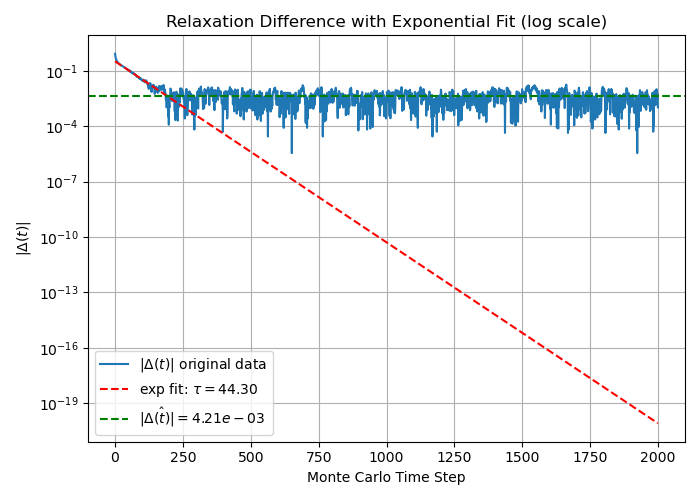
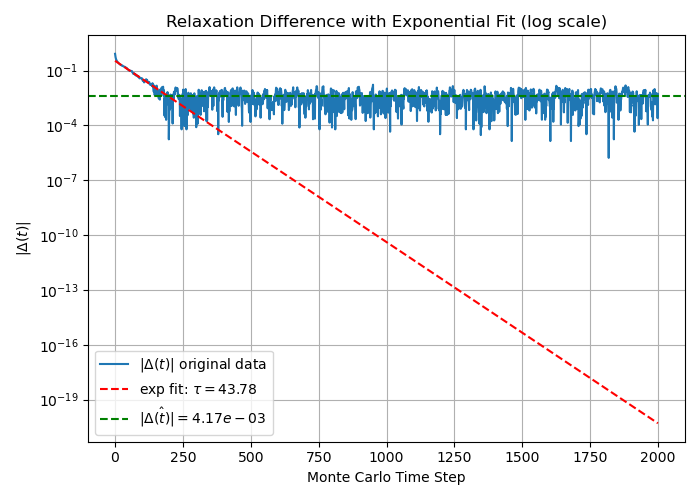
a

diff --git a/code/ising_relaxation_gpt_fast.py b/code/ising_relaxation_gpt_fast.py
@@ -3,12 +3,14 @@ import matplotlib.pyplot as plt
 from scipy.ndimage import uniform_filter1d
 from scipy.optimize import curve_fit
 from numba import njit
+import os
+import json
 
 # 参数设置
 L = 16
 T = 1/(0.5 * np.log(1 + np.sqrt(2)) ) # 临界温度
 J = 1
-n_steps = 20000
+n_steps = 2000
 n_runs = 1000
 @njit
 def init_lattice(L):
@@ -201,10 +203,17 @@ def plot_for_diff_L(L_list: list) -> None:
     plt.show()
 
         
-            
-
 if __name__ == "__main__":
-    # energies = run_multiple_simulations(L)
-    # plot(energies)
-    L_list = [8, 16, 32, 64]
-    plot_for_diff_L(L_list)
+    # 1. 运行模拟，得到 energies
+    energies = run_multiple_simulations(L)
+
+    # 2. 导出到 JSON
+    os.makedirs("data", exist_ok=True)
+    json_path = f"data/energies_L{L}.json"
+    with open(json_path, "w") as f:
+        # 将 numpy 数组转换成 list 并写入
+        json.dump(energies.tolist(), f)
+    print(f"Saved energies to {json_path}")
+
+    # 3. 再做拟合用的绘图
+    plot(energies)

diff --git a/code/read_data.py b/code/read_data.py
@@ -1,0 +1,36 @@
+import json
+import numpy as np
+import matplotlib.pyplot as plt
+
+with open('data\energies_L16.json', 'r') as f:
+    data = json.load(f)
+
+print(len(data))
+
+time = np.arange(len(data))
+energy = np.array(data)
+
+energy = abs(energy - np.mean(energy[-500:]) ) # 去除均值
+energy = energy[:200]
+
+
+def plot_Log( energy):
+    time = np.arange(len(energy))
+    log_energy = np.log(energy)
+    k,b = np.polyfit(time, log_energy, 1) # 线性拟合
+    print(f'k: {k}, b: {b}')
+    plt.plot(time, energy)
+    plt.plot(time, np.exp(k*time + b), label=f'Fitted line: log(y) = {k:.4f}*x+{b:.4f}', color='red')
+    plt.yscale('log')
+    plt.xlabel('Time',fontsize=15)
+    plt.ylabel('Energy',fontsize=15)
+    plt.title('Log of Energy vs Time',fontsize=15)
+    plt.legend()
+    path = 'images\log_energy_vs_time.png'
+    plt.savefig(path)
+    
+    plt.show()
+
+    
+if __name__ == "__main__":
+    plot_Log(energy)

diff --git a/code/calculate.py b/code/calculate.py
@@ -30,10 +30,21 @@ def exact_ising(L, T):
     F = -np.log(Z) / beta
     return Z, E_avg, F
 
+
+def return_x(delta):
+    #$$\Delta_E = e^{-0.02557x-0.857}$$
+    return (np.log(delta) + 0.857) / -0.02557
+
+def reture_delta(x):
+    #$$\Delta_E = e^{-0.02557x-0.857}$$
+    return np.exp(-0.02557 * x - 0.857)
+
 if __name__ == "__main__":
-    L = 4
-    T = 1.0
-    Z, E_avg, F = exact_ising(L, T)
-    print(f"Partition function Z = {Z:.5e}")
-    print(f"Average energy <E> = {E_avg:.5f}")
-    print(f"Free energy F = {F:.5f}")
+    # L = 4
+    # T = 1.0
+    # Z, E_avg, F = exact_ising(L, T)
+    # print(f"Partition function Z = {Z:.5e}")
+    # print(f"Average energy <E> = {E_avg:.5f}")
+    # print(f"Free energy F = {F:.5f}")
+    print(reture_delta(200))
+    print(return_x(0.002))

diff --git a/README.md b/README.md
@@ -356,10 +356,94 @@ $$
 
 
 ####  结论与分析
+##### 1. 磁化强度平方 $\langle m^2 \rangle$ 随温度升高而下降
+**规律：**
+- 当温度低（$T \lesssim 2.0$）时，$\langle m^2 \rangle$ 接近 1，说明系统整体上有强磁化（大多数自旋对齐）。
 
+- 当温度高（$T \gtrsim 2.5$）时，$\langle m^2 \rangle$ 几乎下降到 0，表明系统无序（自旋随机分布）。
+
+- 拐点出现在 $T \approx 2.2 \sim 2.3$，随着系统尺寸 $L$ 的增大（从 8 到 32），下降变得更加陡峭，过渡越来越锐利。
+
+- 在随着温度上升的同时，对于相同的温度，尺寸越大，$\langle m^2 \rangle$ 越小，说明系统越容易进入无序状态。
+
+**解释：**
+
+- 在低温下，自旋倾向于排列一致以最小化能量，系统呈现出自发磁化。
+
+- 在高温下，热涨落占主导地位，自旋取向被随机打乱。
+
+- 拐点附近对应相变温度（临界温度 $T_c$），随着系统变大，$\langle m^2 \rangle$ 的陡峭变化越来越接近理论上的二阶相变行为。
+    具体来说：在热力学极限下（$L\to\infty$），二维Ising模型具有一个二阶相变，在临界温度 $T_c$ 处，系统从有序态（$\langle m \rangle \neq 0$）变为无序态（$\langle m \rangle = 0$）。
+    特别地，二阶相变的特点是：
+    - 顺序参数（这里是 $m$）在临界点处连续变化，但其导数（如比热、磁化率）发散。
+    - 磁化强度近临界点时遵循幂律行为：
+    $$\langle m \rangle \sim (T_c - T)^\beta \quad \text{for } T \to T_c^-$$
+    其中，二维Ising模型的临界指数是：
+    $$
+    \beta = \frac{1}{8}$$
+     <!-- todo -->
+- 热涨落(thermal fluctuations) 在有限尺寸系统中的表现不同。
+
+    当系统尺寸增加时：
+
+    - 子系统之间的独立涨落减少：大系统内部不同区域的自旋相互作用增强，自旋之间更容易形成大规模涨
+    落。
+    - 临界涨落变得更显著：接近 $T_c$,系统的关联长度 $\xi$ 接近或甚至超过系统大小 $L$。
+    - 关联长度：描述一个自旋的方向对另一个自旋方向影响范围的长度尺度。
+    - 临界点附近，$\xi$ 随 $T \to T c$ 发散：
+
+    $$\xi \sim | T- T_c| ^{- \nu }$$ $( \nu = 1$ 对于二维Ising模型)
+
+##### 2. 比热 $c$ 在临界温度附近出现峰值
+**规律：**
+比热曲线在 $T \approx 2.3$ 左右有一个明显峰值，而且随着 $L$ 增大，峰值更加尖锐且更高。
+
+**解释：**
+
+
+比热定义为能量的涨落：
+$$c = \frac{1}{NT^2} \left( \langle E^2 \rangle - \langle E \rangle^2 \right)$$
+在二阶相变附近，系统内部出现了长程关联（即，不同局部区域之间自旋排列变得相互影响），能量涨落剧烈。
+根据临界现象理论：
+- 能量涨落尺度和系统关联长度 $\xi$ 有关。
+- 在临界点 $\xi \to \infty$，导致能量涨落无限大，从而导致比热 $c$ 发散。
+实际上，二维Ising模型的比热发散是对数发散（比热临界指数 $\alpha = 0$）：
+$$
+c \sim \ln |T - T_c|$$
+这意味着，在无限大系统中，比热在 $T_c$ 处理论上是无界的，但在有限尺寸下，$\xi$ 被系统尺寸 $L$ 限制，比热只形成一个有限宽度、有限高度的峰。
+因此，在比热图中：
+- 比热在 $T \approx 2.3$ 附近形成峰值。
+- 峰值高度随 $L$ 增大而上升，峰变得更尖锐，宽度变窄。 这正是临界涨落在有限尺寸系统中的体现。
+
+##### 3. 磁化率 $\chi$ 在临界温度附近也出现尖锐峰值
+**规律：**。
+
+三张曲线显示，在 $T \approx 2.3$ 附近 $\chi$ 有非常大的峰值，尤其在 $L=32$ 时最明显，L越大，峰值越高，但是从图中可以看出峰的宽度没有明显区别。
+
+**解释：**
+
+在临界点附近，系统变得极其敏感，即使很小的扰动（比如小磁场）也会引起很大的整体磁化变化。
+
+因此磁化率在临界点处出现发散趋势。
+
+同样，有限尺寸导致峰值有限，且随着系统尺寸增大，峰值也变高、变尖。
+在临界点附近：
+- 磁化强度的涨落变得巨大，磁化率趋于发散。
+- 具体地，磁化率满足临界行为：
+$$\chi \sim |T - T_c|^{-\gamma}$$
+其中，二维Ising模型的磁化率临界指数是：
+$$
+\gamma = \frac{7}{4}$$
+因此，磁化率在 $T_c$ 附近发散。有限尺寸效应下：
+- 系统涨落受限于有限 $L$，$\chi$ 不再真正发散，而是形成有限的高峰。
+- 随着系统增大，涨落范围扩大，峰值高度增加，峰变得更尖锐。
+在磁化率图中：
+- 峰值清晰地在 $T \approx 2.3$ 处出现。
+- 峰值随 $L$ 增大而明显变高、变尖。
+这符合二阶相变时磁化率的涨落行为。
 <!-- todo -->
-2. 随着系统尺寸 $L$ 增大，峰值变得更尖锐，且靠近理论临界点，说明有限尺寸标度行为显现。
-3. 模拟结果验证了 Metropolis 算法的有效性及其对临界现象的刻画能力。
+<!-- 2. 随着系统尺寸 $L$ 增大，峰值变得更尖锐，且靠近理论临界点，说明有限尺寸标度行为显现。
+3. 模拟结果验证了 Metropolis 算法的有效性及其对临界现象的刻画能力。 -->
 
 ---
 
@@ -391,14 +475,40 @@ $$\beta_c = \frac{1}{2}\ln(1 + \sqrt{2})$$
 ![alt text](images/energy_relaxation_logscale.png)
 
 进行指数拟合：
-间的变化。
+![alt text](images/log_energy_vs_time.png)
+
+得到$\Delta$随时间变换的拟合关系：
+$$\Delta_E = e^{-0.02557x-0.857}$$
+
+设置$\Delta$的阈值，认为当$\Delta_E < 0.002$时，系统能量已经弛豫到稳态。
+
+则当$t=200$时，$\Delta_E$小于0.002，系统能量已经弛豫到稳态。
+
 ![alt text](images/energy_relaxation_expfit.png)
 
-2. 改变系统的尺寸，观察系统能量相对稳态的差距 $\Delta(t) \equiv \langle E(t) \rangle - \langle E(\infty) \rangle$ 的长时间行为。你发现了什么规律？系统尺寸对这个规律有怎样的影响？临界温度在这个问题中可能有什么意义（3分） hint: 谨慎地确定 $\langle E(\infty) \rangle$.
-
+### 问题三：系统尺寸对能量弛豫的影响
+<!-- 2. 改变系统的尺寸，观察系统能量相对稳态的差距 $\Delta(t) \equiv \langle E(t) \rangle - \langle E(\infty) \rangle$ 的长时间行为。你发现了什么规律？系统尺寸对这个规律有怎样的影响？临界温度在这个问题中可能有什么意义（3分） hint: 谨慎地确定 $\langle E(\infty) \rangle$. -->
+先采取一个足够长的时间，谨慎地确定$\langle E(\infty) \rangle$
+取t=20000:
 ![alt text](<images/energy_relaxation_smooth_when_L=[8, 16, 32, 64].png>)
 
-![alt text](<images/energy_relaxation_logscale_when_L=[8, 16, 32, 64].png>)
+在上图中全部尺寸均弛豫到稳定能量。
+观察到：
+- 随着系统尺寸 $L$ 的增大，能量弛豫到稳态的时间变长
+- 尺寸越大，弛豫到稳态的能量值越高，越接近理论值$\sqrt{2}$。
+
+采取一个合适的时间长度，进行演化：
+![alt text](<images/energy_relaxation_smooth_when_L=[8, 16, 32, 64]_t=4000.png>)
+
+进一步地，观察$\Delta$随时间的变化关系：
+
+![alt text](<images/energy_relaxation_logscale_when_L=[8, 16, 32, 64]_t=4000.png>)
+
+可以发现：
+- 对于不同的尺寸，$log(\Delta)$随时间的变化关系是线性的。说明指数拟合关系对于不同的尺寸都适用。
+- 随着系统尺寸 $L$ 的增大，能量弛豫到稳态的时间变长。
+
+
 ## 附录
 ## A.L=4 能量
 ``` python
